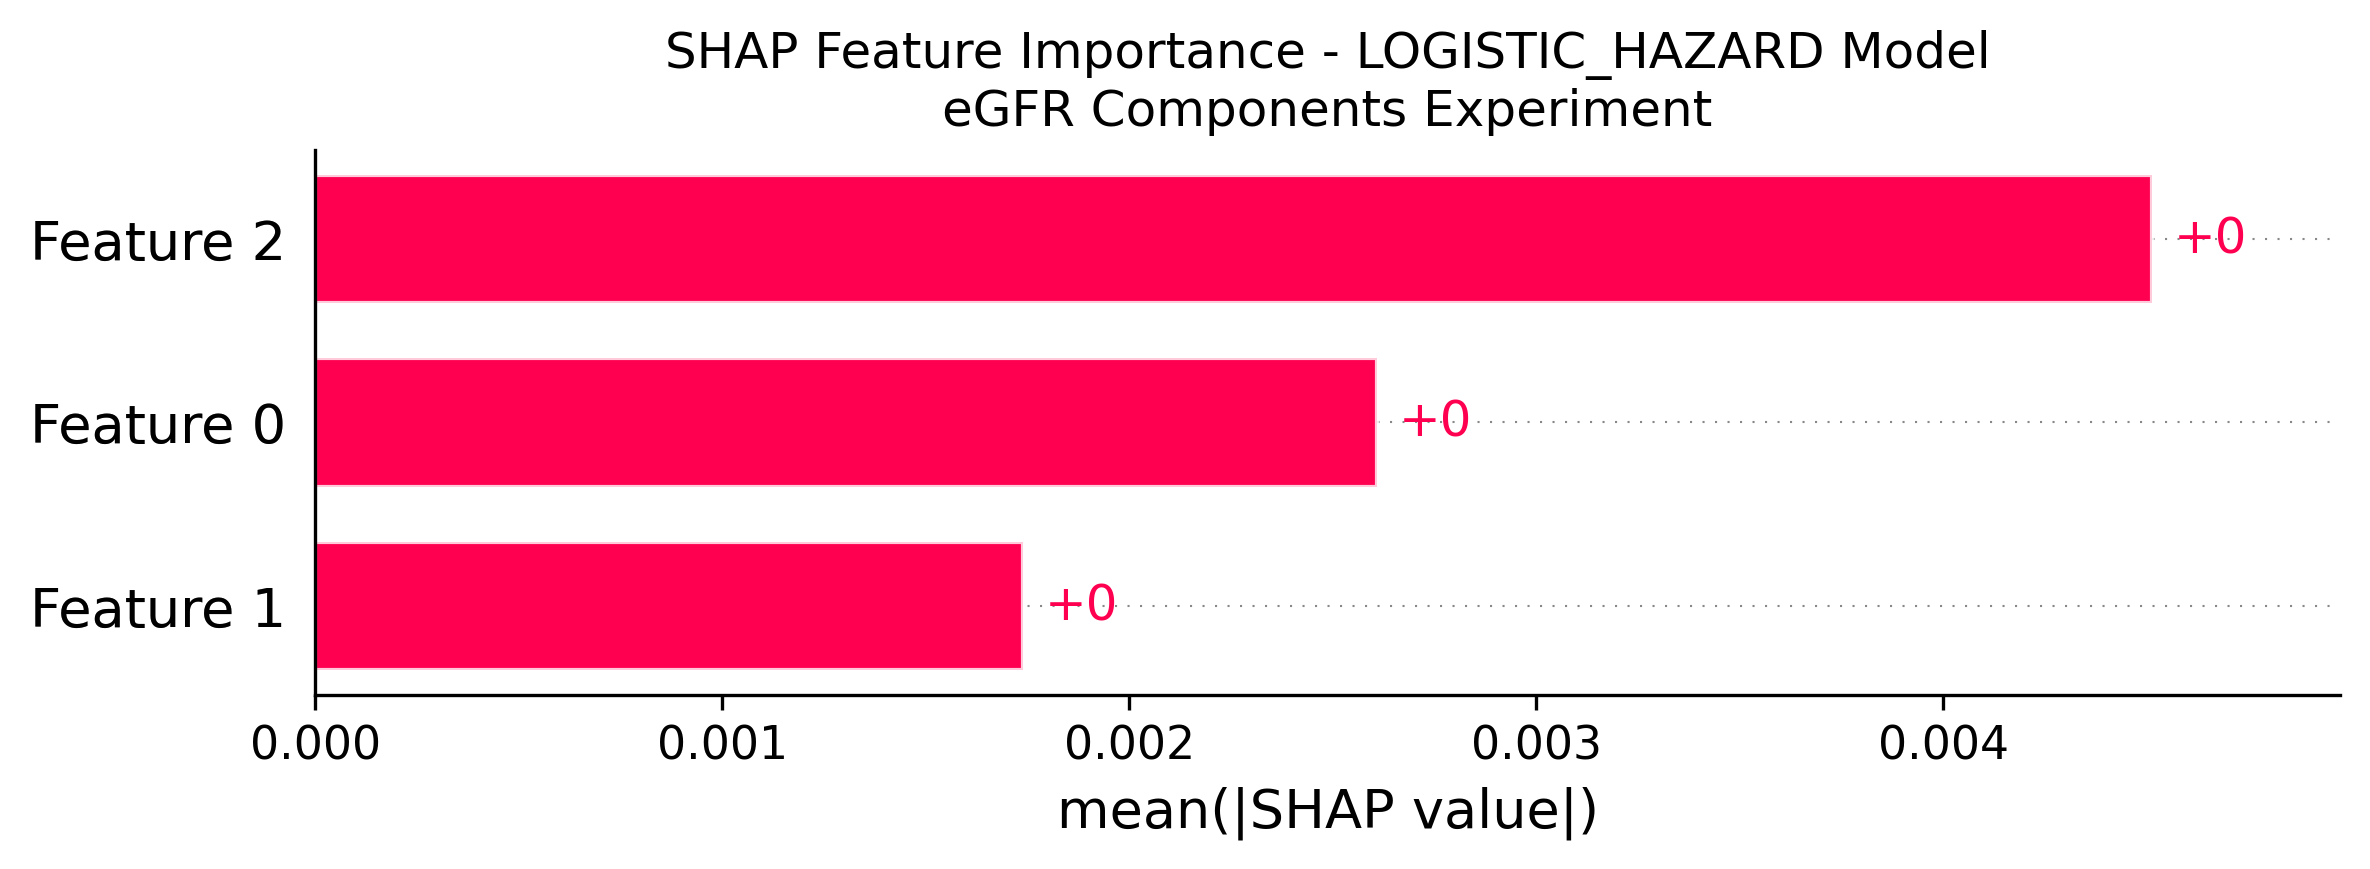
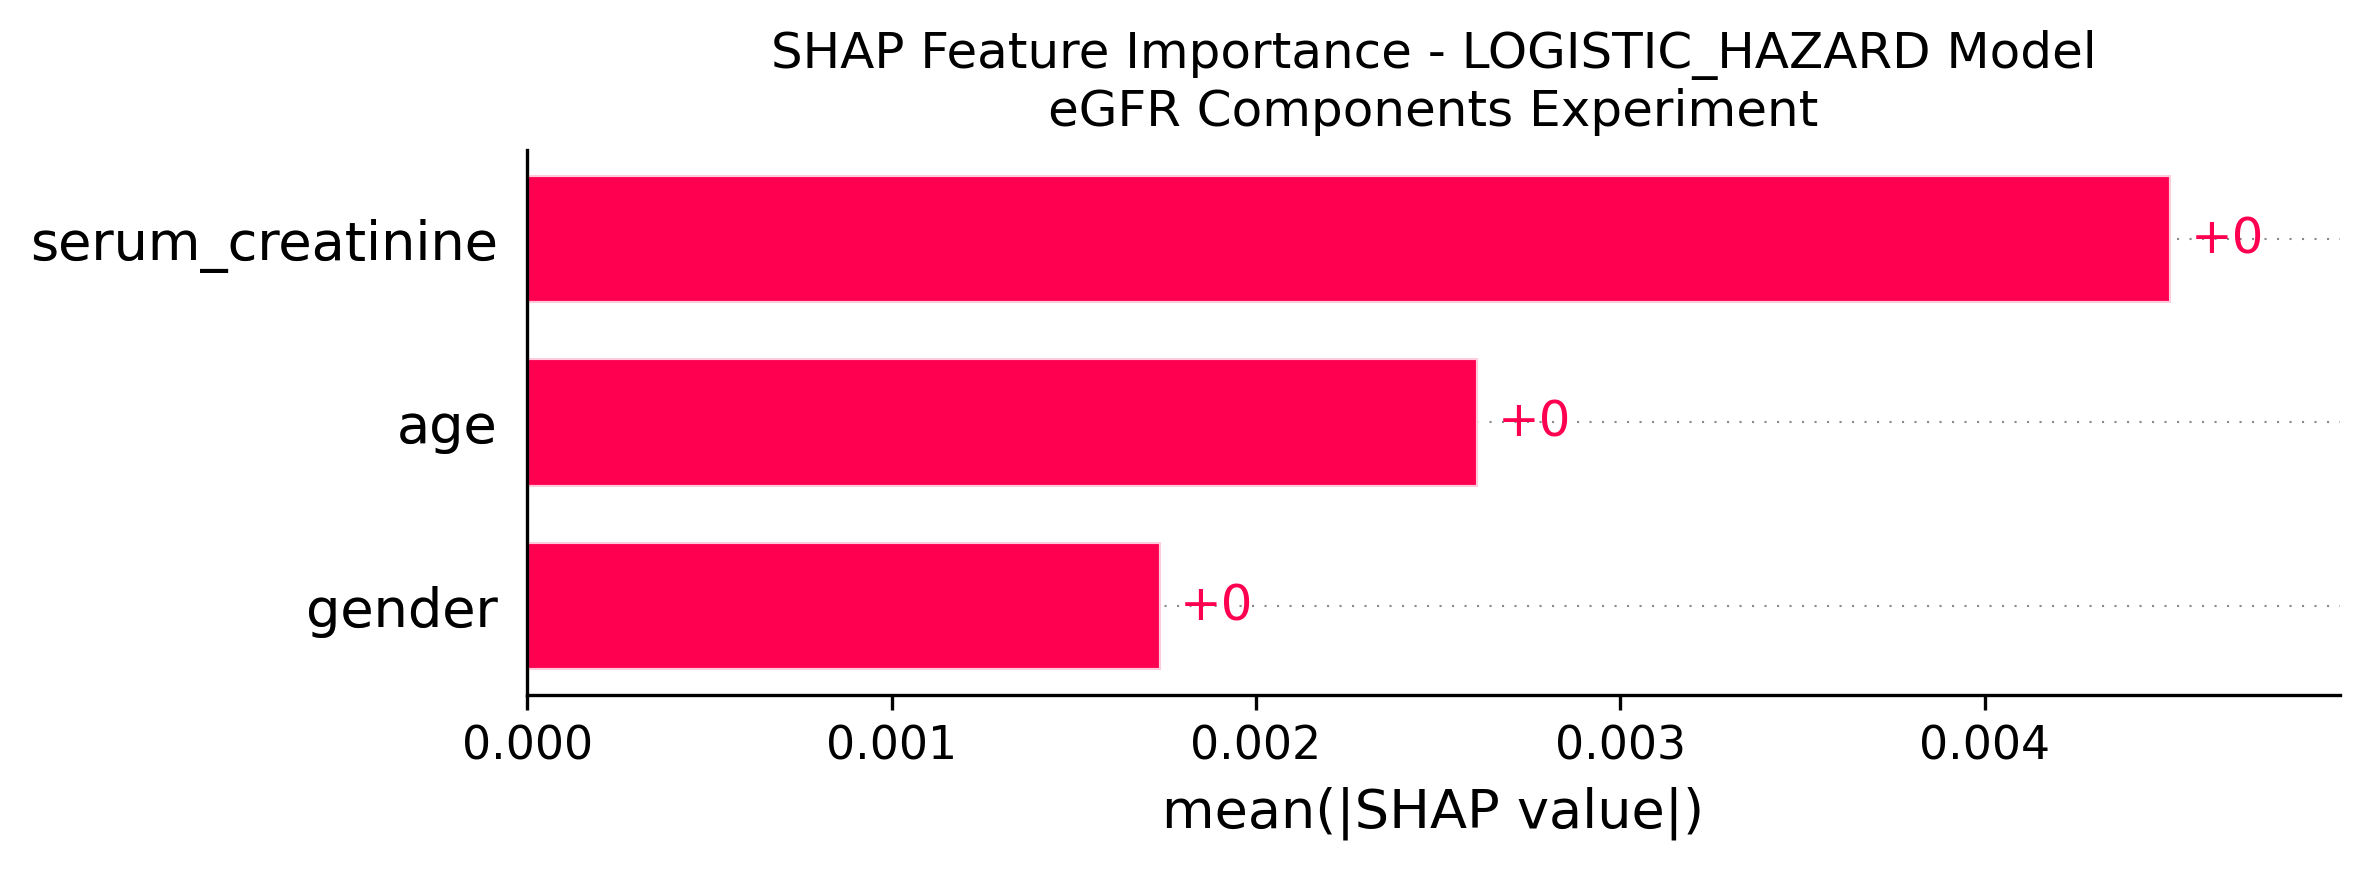
na

diff --git a/pkgs/scripts/egfr_components_shap_analysis.py b/pkgs/scripts/egfr_components_shap_analysis.py
@@ -281,6 +281,18 @@ class EGFRComponentsSHAPAnalysis:
         print(f"Computing SHAP values for {sample_size} samples...")
         shap_values = explainer(X_sample)
         
+        # Ensure feature names are properly set
+        if hasattr(shap_values, 'feature_names'):
+            shap_values.feature_names = self.features
+        elif hasattr(shap_values, 'data') and hasattr(shap_values.data, 'columns'):
+            shap_values.data.columns = self.features
+        
+        # For newer SHAP versions, set feature names directly
+        try:
+            shap_values.feature_names = self.features
+        except:
+            pass
+        
         self.shap_values['cox'] = shap_values
         self.explainers['cox'] = explainer
         
@@ -307,10 +319,16 @@ class EGFRComponentsSHAPAnalysis:
             explainer = shap.Explainer(surrogate, X_train)
         except Exception as e:
             if "singular" in str(e).lower():
-                print(f"Handling singular covariance matrix for {model_name}")
-                # Add small random noise to avoid singular matrix
-                X_train_noisy = X_train + np.random.normal(0, 1e-8, X_train.shape)
-                explainer = shap.Explainer(surrogate, X_train_noisy)
+                print(f"Handling singular covariance matrix for {model_name}, using TreeExplainer...")
+                try:
+                    # Use TreeExplainer for problematic models
+                    explainer = shap.TreeExplainer(surrogate)
+                except Exception as e2:
+                    print(f"TreeExplainer also failed for {model_name}, adding more noise...")
+                    # Add more substantial random noise to avoid singular matrix
+                    noise_scale = 1e-5 if model_name == 'hazard_transformer' else 1e-6
+                    X_train_noisy = X_train + np.random.normal(0, noise_scale, X_train.shape)
+                    explainer = shap.Explainer(surrogate, X_train_noisy)
             else:
                 print(f"Failed to create explainer for {model_name}: {e}")
                 return None
@@ -321,6 +339,18 @@ class EGFRComponentsSHAPAnalysis:
         
         print(f"Computing SHAP values for {sample_size} samples...")
         shap_values = explainer(X_sample)
+        
+        # Ensure feature names are properly set
+        if hasattr(shap_values, 'feature_names'):
+            shap_values.feature_names = self.features
+        elif hasattr(shap_values, 'data') and hasattr(shap_values.data, 'columns'):
+            shap_values.data.columns = self.features
+        
+        # For newer SHAP versions, set feature names directly
+        try:
+            shap_values.feature_names = self.features
+        except:
+            pass
         
         self.shap_values[model_name] = shap_values
         self.explainers[model_name] = explainer
@@ -357,7 +387,11 @@ class EGFRComponentsSHAPAnalysis:
             return
             
         plt.figure(figsize=(8, 6))
-        shap.plots.bar(self.shap_values[model_name], show=False)
+        # Set feature names on the SHAP values object before plotting
+        shap_values = self.shap_values[model_name]
+        if hasattr(shap_values, 'feature_names'):
+            shap_values.feature_names = self.features
+        shap.plots.bar(shap_values, show=False)
         plt.title(f'SHAP Feature Importance - {model_name.upper()} Model\neGFR Components Experiment')
         plt.tight_layout()
         
@@ -377,8 +411,20 @@ class EGFRComponentsSHAPAnalysis:
         shap_values = self.shap_values[model_name]
         
         for i in range(min(n_samples, len(shap_values))):
+            # Create a custom SHAP Explanation object with proper feature names
+            single_explanation = shap_values[i]
+            
+            # Create a new explanation object with proper feature names
+            import shap
+            explanation = shap.Explanation(
+                values=single_explanation.values,
+                base_values=single_explanation.base_values,
+                data=single_explanation.data,
+                feature_names=self.features
+            )
+            
             plt.figure(figsize=(10, 6))
-            shap.plots.waterfall(shap_values[i], show=False)
+            shap.plots.waterfall(explanation, show=False)
             plt.title(f'SHAP Waterfall Plot - {model_name.upper()} Model (Sample {i+1})\neGFR Components Experiment')
             plt.tight_layout()
             
